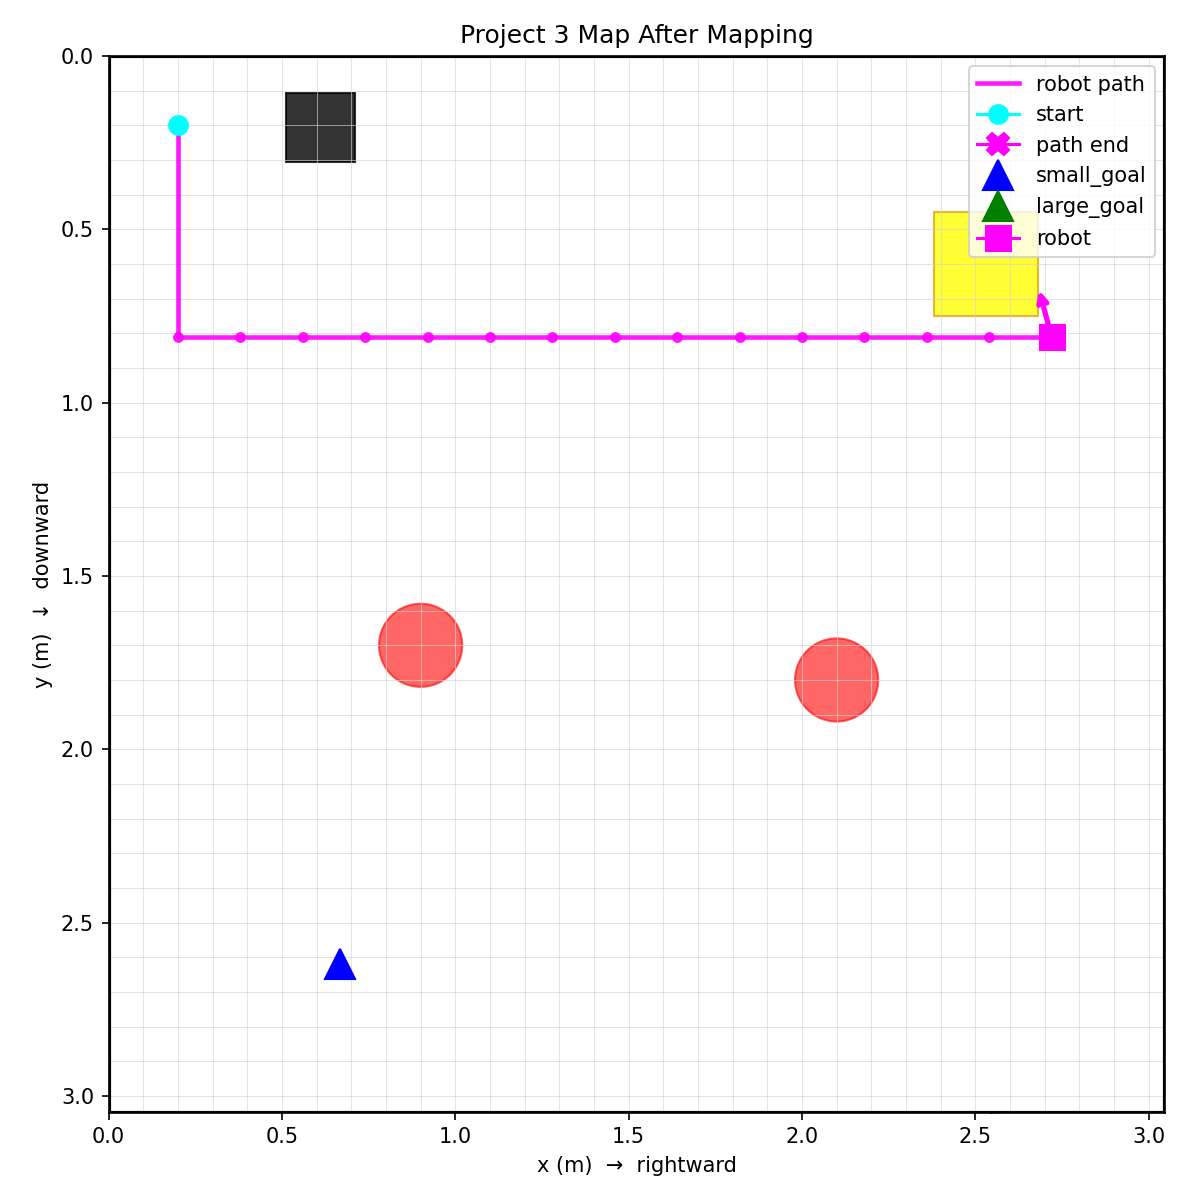
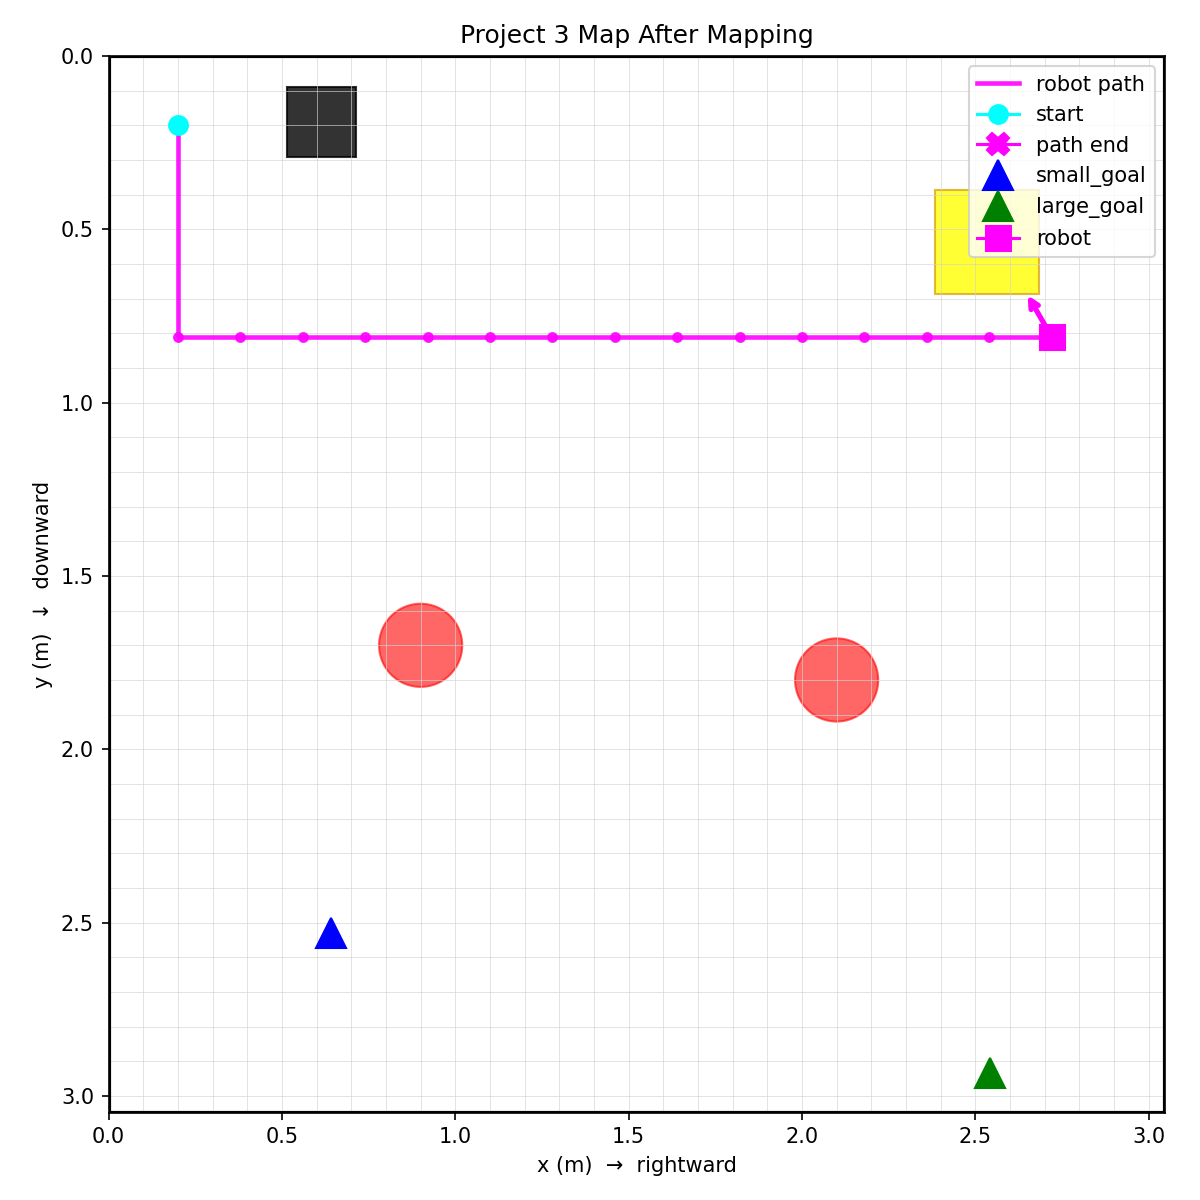
working code and updated graphs

diff --git a/Project 3/project_3_updated.py b/Project 3/project_3_updated.py
@@ -1732,6 +1732,7 @@ def servo_to_visible_tag(
     """
     valid_set = set(valid_ids)
     straight_approach_active = False
+    last_seen_forward_dist_m: Optional[float] = None
     deadline = time.time() + timeout_s
     while time.time() < deadline:
         frame = read_frame(ep_camera, timeout=0.5)
@@ -1743,6 +1744,11 @@ def servo_to_visible_tag(
             if straight_approach_active:
                 ep_chassis.drive_speed(x=0.0, y=0.0, z=0.0, timeout=0.1)
                 time.sleep(0.1)
+                if (
+                    last_seen_forward_dist_m is not None
+                    and last_seen_forward_dist_m <= target_dist_m + 0.06
+                ):
+                    return True
                 continue
             # Slowly sweep CW (yaw increases): z negative for drive_speed.
             wz = -10.0
@@ -1754,6 +1760,7 @@ def servo_to_visible_tag(
 
         err_px = center_error_px(float(tag.center[0]))
         err_dist_m = tag_detector.tag_forward_distance_m(tag) - target_dist_m
+        last_seen_forward_dist_m = tag_detector.tag_forward_distance_m(tag)
         if abs(err_px) < 18.0 and abs(err_dist_m) < 0.04:
             ep_chassis.drive_speed(x=0.0, y=0.0, z=0.0, timeout=0.1)
             time.sleep(0.1)
@@ -1766,6 +1773,10 @@ def servo_to_visible_tag(
             )
 
         if straight_approach_active:
+            if err_dist_m <= 0.0:
+                ep_chassis.drive_speed(x=0.0, y=0.0, z=0.0, timeout=0.1)
+                time.sleep(0.1)
+                return True
             vx = max(0.0, vx)
             wz = 0.0
             dt = 0.5

diff --git a/Project 3/config.py b/Project 3/config.py
@@ -24,16 +24,16 @@ DEFAULT_MODEL_PATH = PROJECT_DIR / "new_best.pt"
 # DEFAULT_ROBOT_SN = "3JKCH8800100UB"
 
 # Robot 7
-# DEFAULT_ROBOT_IP = "192.168.50.117"
-# DEFAULT_ROBOT_SN = "3JKCH8800100RC"
+DEFAULT_ROBOT_IP = "192.168.50.117"
+DEFAULT_ROBOT_SN = "3JKCH8800100RC"
 
 # Robot 5
 # DEFAULT_ROBOT_IP = "192.168.50.115"
 # DEFAULT_ROBOT_SN = "3JKCH8800101CE"
 
-# Robot 7
-DEFAULT_ROBOT_IP = "192.168.50.119"
-DEFAULT_ROBOT_SN = "3JKCH88001012K"
+# Robot 9
+# DEFAULT_ROBOT_IP = "192.168.50.119"
+# DEFAULT_ROBOT_SN = "3JKCH88001012K"
 ROBOT_IP = DEFAULT_ROBOT_IP
 ROBOT_SN = DEFAULT_ROBOT_SN
 MODEL_PATH = DEFAULT_MODEL_PATH
